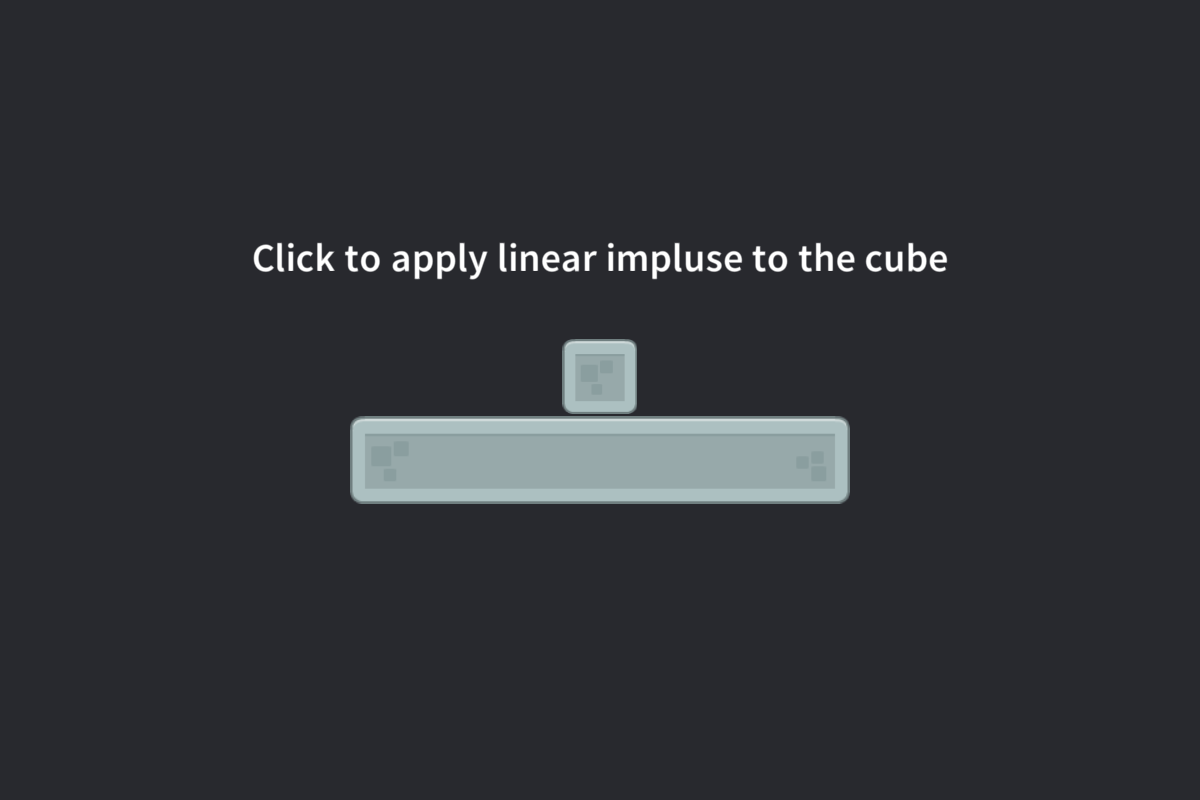
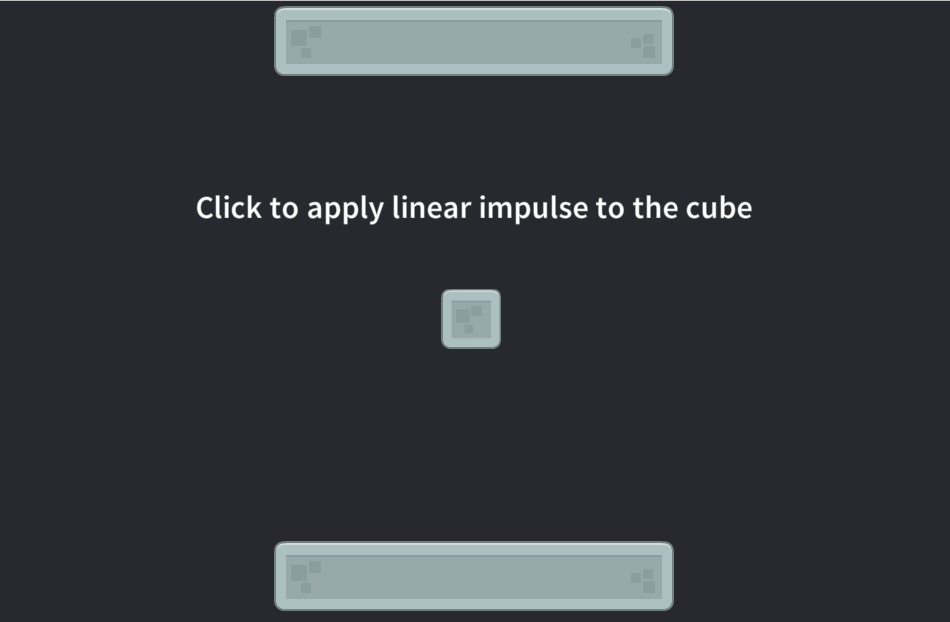
Fixed the apply linear force example.

diff --git a/physics/apply_linear_impulse/example.md b/physics/apply_linear_impulse/example.md
@@ -1,16 +1,28 @@
 ---
 tags: physics
-title: Apply Linear Impluse
-brief: This example demonstrates how to apply linear impluse to a dynamic cube on touch/click
+title: Apply Linear Impulse
+brief: Apply a linear impulse to a dynamic physics body on click or touch.
 author: JuLongZhiLu(巨龙之路)
 scripts: cube.script
 thumbnail: thumbnail.png
 ---
 
-The cube contains a dynamic collisionobject component. 
+This example shows how a Box2D body can be pushed instantly with a linear impulse.
 
-![image](image.png)
+## What You'll Learn
 
-The below script applies a vertical linear impulse to the dynamic collisionobject on click/touch using the `b2d` API functions.
+- How to get the Box2D body from a collision object.
+- How to apply an impulse at a world position.
+- How to receive touch and mouse input in a script.
+
+## Setup
+
+The collection contains a cube game object with a sprite, a dynamic collision object, and `/example/cube.script`. A static platform collision object catches the cube after the impulse. The project enables fixed-step physics and uses Box2D through Defold's built-in `b2d` API.
+
+![setup](setup.webp)
+
+## How It Works
+
+The script acquires input focus and listens for the built-in `touch` action. When the player clicks or touches the screen, it gets the cube's Box2D body, reads the body's current world position, and applies an upward linear impulse at that point.
 
 Read more about the [Box2D API here](https://defold.com/ref/stable/b2d-lua/).